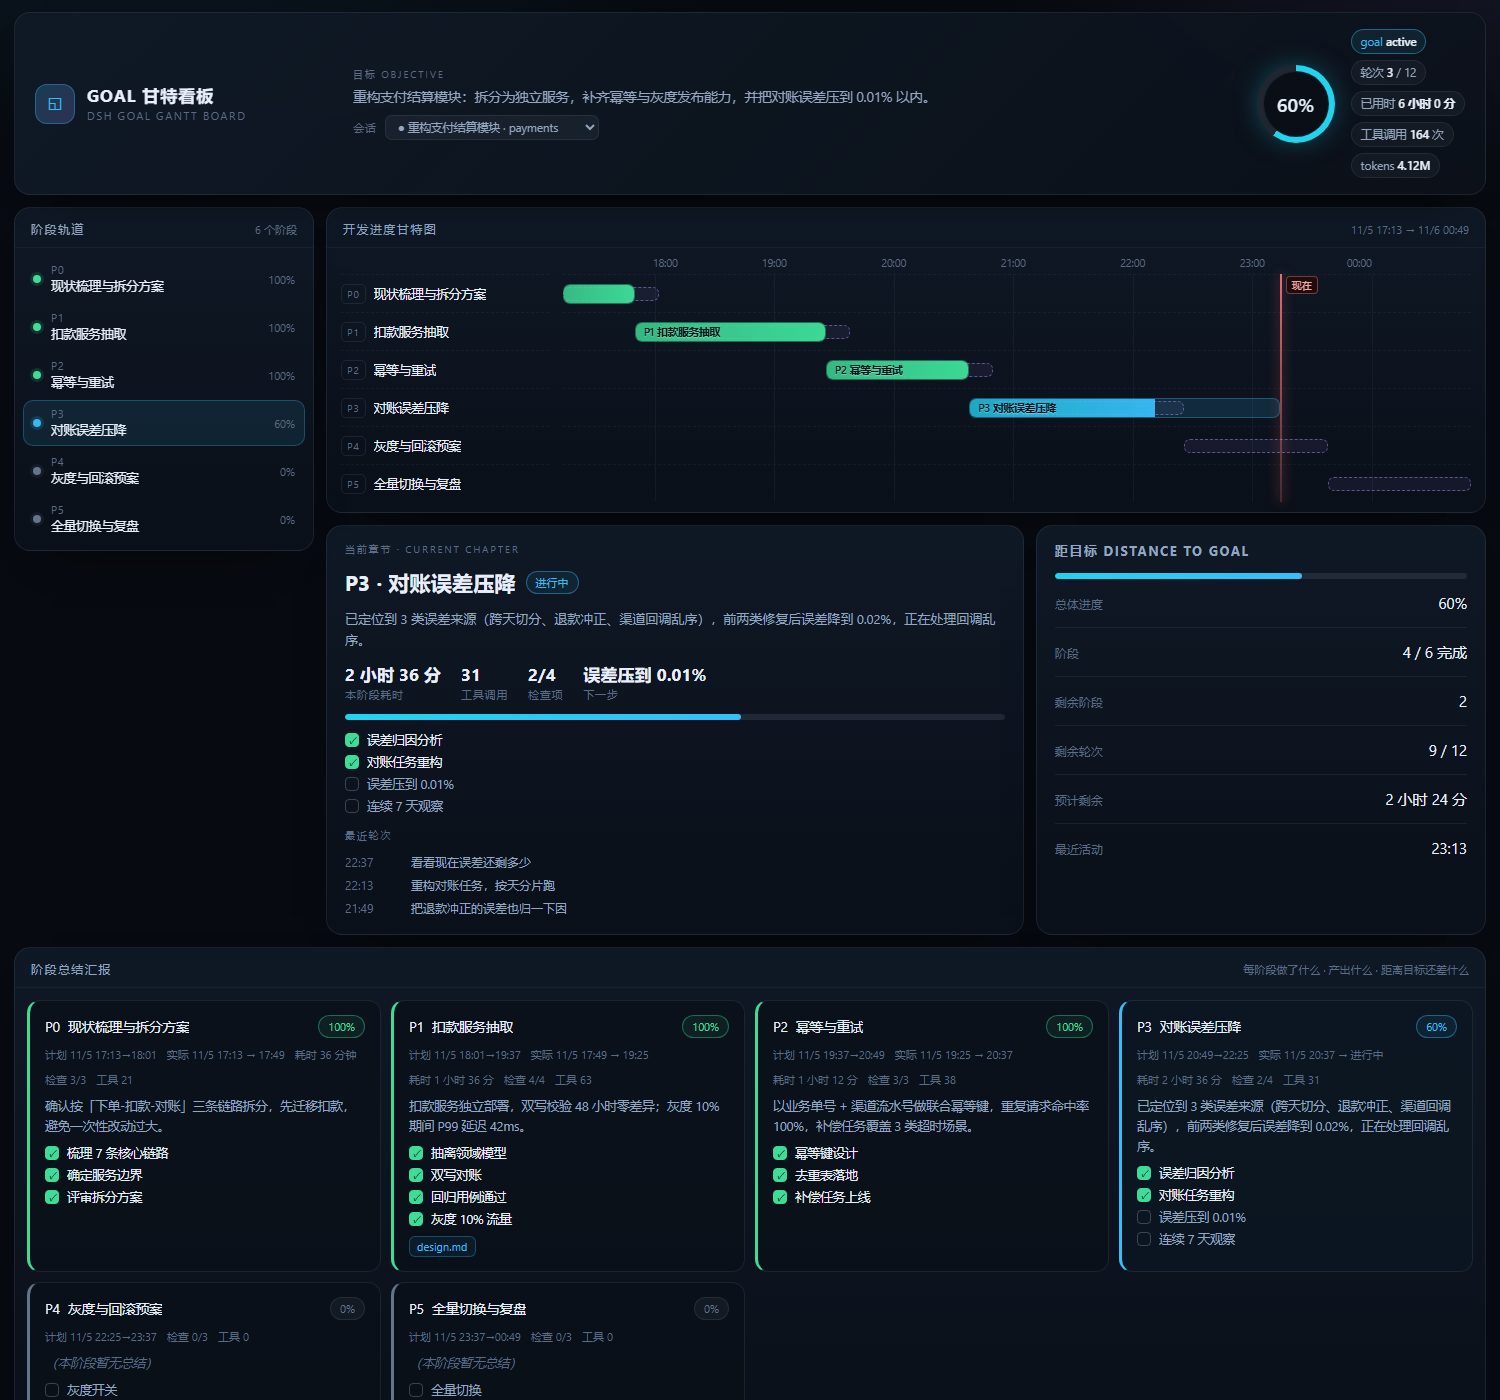
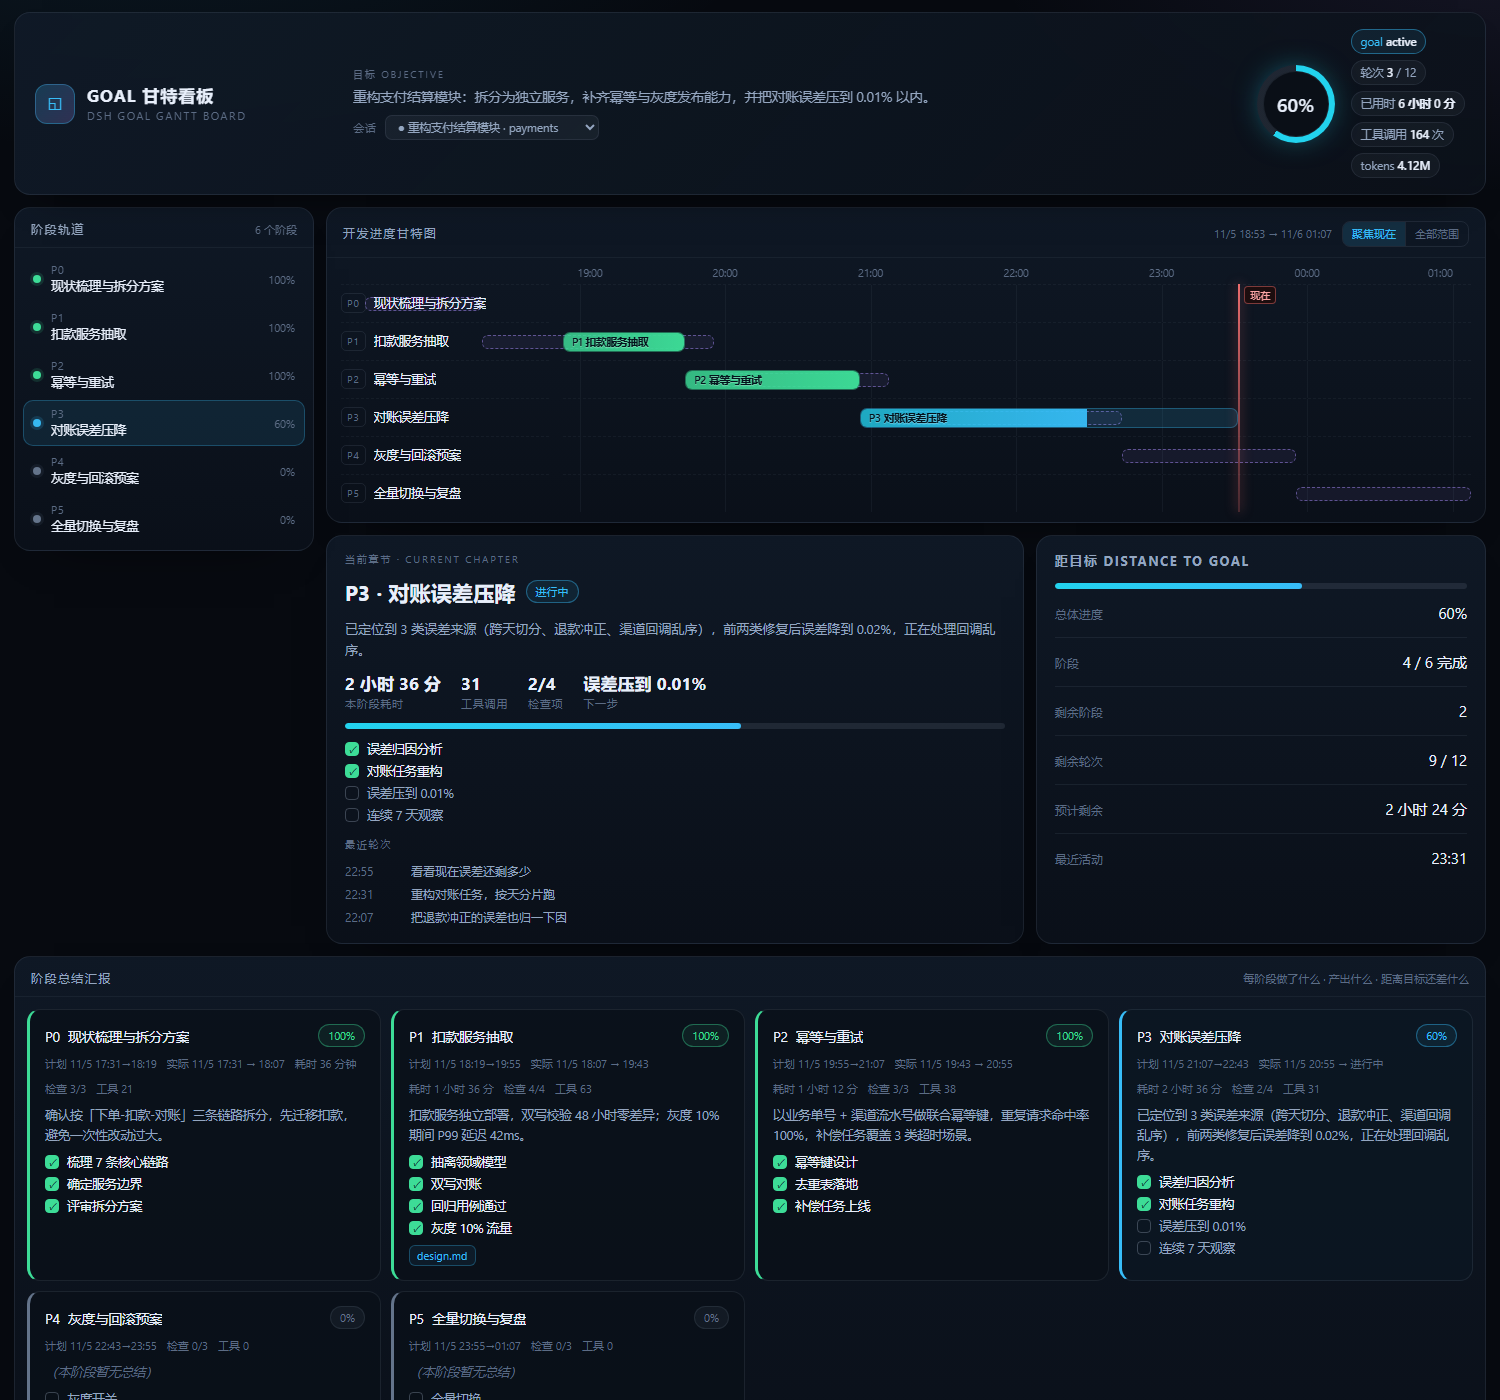
feat: focus-now time window and reusable phase lanes
- default view is a window around 'now' scaled by the active phase; toolbar
  toggles between 聚焦现在 and 全部范围
- a phase id may appear multiple times: segments merge into one lane with one
  bar per segment, summed duration and latest/active summary
- demo fixture and render tests updated; host test covers lane merging

diff --git a/lib/assets/board.js b/lib/assets/board.js
@@ -3,6 +3,7 @@
   'use strict';
 
   var DATA = window.__BOARD__ || null;
+  var VIEW_MODE = 'now';   /* now = 聚焦当前时间窗口；all = 全量 */
   var timer = null;
 
   var esc = function (s) {
@@ -138,8 +139,36 @@
     return { ticks: ticks, step: step };
   }
 
+  /* 默认只看「现在」附近：以进行中阶段的时长为尺度 */
+  function viewRange(d) {
+    var all = { from: d.timeline.from, to: d.timeline.to };
+    if (VIEW_MODE === 'all') return all;
+
+    var now = d.timeline.now;
+    var activeSeg = null;
+    var lastEnd = all.from;
+    (d.phases || []).forEach(function (p) {
+      var segs = (p.segments && p.segments.length) ? p.segments : [p];
+      segs.forEach(function (s) {
+        if (s.startedAt && (!s.endedAt || s.endedAt > lastEnd)) lastEnd = s.endedAt || now;
+        if (s.status === 'active' && s.startedAt) activeSeg = s;
+      });
+    });
+
+    var anchor = activeSeg ? now : lastEnd;
+    var base = activeSeg ? Math.max(now - activeSeg.startedAt, 20 * 60000) : 90 * 60000;
+    var span = Math.max(base * 2.4, 45 * 60000);
+    var from = anchor - span * 0.72;
+    var to = anchor + span * 0.28;
+
+    if (from < all.from) { from = all.from; to = Math.min(all.to, from + span); }
+    if (to > all.to) { to = all.to; from = Math.max(all.from, to - span); }
+    return { from: from, to: Math.max(to, from + 60000) };
+  }
+
   function renderGantt(d) {
-    var from = d.timeline.from, to = d.timeline.to;
+    var range = viewRange(d);
+    var from = range.from, to = range.to;
     var span = Math.max(to - from, 60000);
     var xp = function (t) { return ((t - from) / span) * 100; };
 
@@ -164,23 +193,32 @@
       labels.push('<div class="glab"><span class="gid">' + esc(p.id) + '</span><span class="gname" title="' +
         esc(p.title) + '">' + esc(p.title) + '</span></div>');
 
+      /* 同一阶段可能有多个时间段（复用同一个标签），逐段画条 */
+      var segs = (p.segments && p.segments.length)
+        ? p.segments
+        : [{ startedAt: p.startedAt, endedAt: p.endedAt, plannedStart: p.plannedStart,
+             plannedEnd: p.plannedEnd, status: p.status, progress: p.progress }];
+
       var bars = '';
-      if (p.plannedStart && p.plannedEnd) {
-        var pl = xp(p.plannedStart), pw = Math.max(xp(p.plannedEnd) - pl, 0.35);
-        bars += '<i class="gplan" style="left:' + pl.toFixed(3) + '%;width:' + pw.toFixed(3) + '%"></i>';
-      }
-      if (p.startedAt) {
-        var a = Math.max(xp(p.startedAt), 0);
-        var b = Math.min(xp(p.endedAt || d.timeline.now), 100);
+      segs.forEach(function (sg, si) {
+        if (sg.plannedStart && sg.plannedEnd) {
+          var pl = xp(sg.plannedStart), pw = Math.max(xp(sg.plannedEnd) - pl, 0.35);
+          bars += '<i class="gplan" style="left:' + pl.toFixed(3) + '%;width:' + pw.toFixed(3) + '%"></i>';
+        }
+        if (!sg.startedAt) return;
+        var a = Math.max(xp(sg.startedAt), 0);
+        var b = Math.min(xp(sg.endedAt || d.timeline.now), 100);
+        if (b <= a) return;
         var width = Math.max(b - a, 0.4);
-        var tip = [p.id, p.title, st.text, fmtRange(p.startedAt, p.endedAt), fmtDur(p.durationMs),
-          (p.activity ? p.activity.toolCalls : 0), (p.progress || 0)].join('|');
-        bars += '<div class="gbar st-' + p.status + '" data-tip="' + esc(tip) + '"' +
+        var tip = [p.id, p.title, statusOf(sg.status).text, fmtRange(sg.startedAt, sg.endedAt),
+          fmtDur(sg.startedAt ? (sg.endedAt || d.timeline.now) - sg.startedAt : null),
+          (p.activity ? p.activity.toolCalls : 0), (sg.progress || 0)].join('|');
+        bars += '<div class="gbar st-' + sg.status + '" data-tip="' + esc(tip) + '"' +
           ' style="left:' + a.toFixed(3) + '%;width:' + width.toFixed(3) + '%">' +
-          '<i class="fill" style="width:' + Math.min(p.progress || 0, 100) + '%"></i>' +
-          (width > 8 ? '<span class="lbl">' + esc(p.id + ' ' + p.title) + '</span>' : '') +
+          '<i class="fill" style="width:' + Math.min(sg.progress || 0, 100) + '%"></i>' +
+          (width > 8 ? '<span class="lbl">' + esc(p.id + ' ' + p.title) + (segs.length > 1 ? ' · ' + (si + 1) : '') + '</span>' : '') +
           '</div>';
-      }
+      });
       tracks.push('<div class="gtrack"><div class="grid">' + grid + '</div>' + bars + '</div>');
     });
 
@@ -193,6 +231,17 @@
     document.getElementById('gtracks').innerHTML = nowHtml + tracks.join('');
     document.getElementById('gantt-hint').textContent =
       fmtDate(from) + ' ' + fmtClock(from) + ' → ' + fmtDate(to) + ' ' + fmtClock(to);
+
+    var tools = document.getElementById('gantt-tools');
+    if (tools && typeof tools.querySelectorAll === 'function') {
+      Array.prototype.forEach.call(tools.querySelectorAll('button'), function (btn) {
+        btn.classList.toggle('on', btn.getAttribute('data-mode') === VIEW_MODE);
+        btn.onclick = function () {
+          VIEW_MODE = btn.getAttribute('data-mode');
+          renderGantt(DATA);
+        };
+      });
+    }
 
     bindTips();
   }
@@ -234,8 +283,10 @@
       host.innerHTML = '<div class="ckicker">当前章节</div><h2>尚未开始</h2><p>还没有阶段被标记为进行中。</p>';
       return;
     }
+    var seg = (p.segments && (p.segments.filter(function (s) { return s.status === 'active'; })[0] ||
+      p.segments[p.segments.length - 1])) || { startedAt: p.startedAt, endedAt: p.endedAt, summary: p.summary, checks: p.checks };
     var st = statusOf(p.status);
-    var doneChecks = p.checks.filter(function (c) { return c.done; }).length;
+    var doneChecks = seg.checks.filter(function (c) { return c.done; }).length;
 
     var turns = (d.recentTurns || []).slice().reverse().map(function (t) {
       return '<div class="turn"><time>' + esc(fmtStamp(t.time)) + '</time><span title="' + esc(t.prompt) + '">' +
@@ -250,9 +301,10 @@
     host.innerHTML =
       '<div class="ckicker">' + kicker + '</div>' +
       '<div class="chead"><h2>' + esc(p.id + ' · ' + p.title) + '</h2><span class="badge ' + st.cls + '">' + st.text + '</span></div>' +
-      '<p>' + esc(p.summary || p.desc || '暂无阶段说明。') + '</p>' +
+      '<p>' + esc(seg.summary || p.summary || p.desc || '暂无阶段说明。') + '</p>' +
       '<div class="kmeter">' +
-        '<div class="kv"><b>' + (p.durationMs ? fmtDur(p.durationMs) : '—') + '</b><span>本阶段耗时</span></div>' +
+        '<div class="kv"><b>' + (p.durationMs ? fmtDur(p.durationMs) : '—') + '</b><span>' +
+          ((p.segments && p.segments.length > 1) ? '累计耗时' : '本阶段耗时') + '</span></div>' +
         '<div class="kv"><b>' + (p.activity ? p.activity.toolCalls : 0) + '</b><span>工具调用</span></div>' +
         '<div class="kv"><b>' + doneChecks + '/' + p.checks.length + '</b><span>检查项</span></div>' +
         '<div class="kv"><b>' + (p.nextCheck || '—') + '</b><span>下一步</span></div>' +
@@ -314,7 +366,8 @@
         (p.startedAt ? '<span>实际 ' + esc(fmtRange(p.startedAt, p.endedAt)) + '</span>' : '') +
         (p.durationMs ? '<span>耗时 ' + esc(fmtDur(p.durationMs)) + '</span>' : '') +
         '<span>检查 ' + doneChecks + '/' + p.checks.length + '</span>' +
-        (p.activity ? '<span>工具 ' + p.activity.toolCalls + '</span>' : '') + '</div>' +
+        (p.activity ? '<span>工具 ' + p.activity.toolCalls + '</span>' : '') +
+        ((p.segments && p.segments.length > 1) ? '<span>' + p.segments.length + ' 个时间段</span>' : '') + '</div>' +
         '<div class="summary' + (p.summary ? '' : ' empty') + '">' + esc(p.summary || '（本阶段暂无总结）') + '</div>' +
         checks + deliv +
         '</div>';

diff --git a/lib/board-data.js b/lib/board-data.js
@@ -185,6 +185,46 @@ function readPhaseConfig(cwd) {
 const ts = (value) => (value ? Date.parse(value) : null);
 
 /**
+ * 把同 id 的阶段合并成一条泳道（允许不同时间段的重复优化共用同一个标签）。
+ * 返回的每一项带 segments[]，并保留顶层的兼容字段。
+ */
+export function groupPhases(raw) {
+  const order = [];
+  const groups = new Map();
+  for (const phase of raw) {
+    if (!groups.has(phase.id)) { groups.set(phase.id, []); order.push(phase.id); }
+    groups.get(phase.id).push(phase);
+  }
+
+  return order.map((id) => {
+    const segments = groups.get(id).slice().sort((a, b) => (a.startedAt ?? a.plannedStart ?? 0) - (b.startedAt ?? b.plannedStart ?? 0));
+    const latest = segments[segments.length - 1];
+    const active = segments.find((s) => s.status === 'active') ?? null;
+    const allDone = segments.every((s) => s.status === 'done');
+    const status = active ? 'active' : allDone ? 'done' : latest.status;
+    const first = segments[0];
+    const endedAt = active ? null : (latest.endedAt ?? latest.plannedEnd ?? null);
+
+    return {
+      id,
+      title: first.title,
+      desc: first.desc,
+      status,
+      segments,
+      startedAt: first.startedAt ?? first.plannedStart ?? null,
+      plannedStart: first.plannedStart ?? null,
+      plannedEnd: latest.plannedEnd ?? null,
+      endedAt,
+      checks: (active ?? latest).checks,
+      summary: (active ?? latest).summary,
+      deliverables: segments.flatMap((s) => s.deliverables || []),
+      progress: active ? active.progress : latest.progress,
+      current: active ?? latest,
+    };
+  });
+}
+
+/**
  * 阶段配置是否适用于这个会话：
  *   config.sessionId  指定会话（最高优先级）
  *   config.goalId     指定 goal
@@ -379,18 +419,32 @@ export function buildBoard(dataRoot, opts = {}) {
     ? []
     : (mode === 'config' ? config.phases.map(phaseFromConfig) : autoPhases(events, goal, now));
 
-  const phases = rawPhases.map((phase, index) => {
+  const grouped = groupPhases(rawPhases);
+
+  const phases = grouped.map((phase) => {
+    /* 每个时间段单独成段，甘特图会为每段画一根条 */
+    const segments = phase.segments.map((s) => {
+      const segEnd = s.endedAt ?? (s.status === 'active' ? now : null);
+      return {
+        startedAt: s.startedAt,
+        endedAt: segEnd,
+        plannedStart: s.plannedStart,
+        plannedEnd: s.plannedEnd,
+        status: s.status,
+        progress: s.progress ?? (s.status === 'done' ? 100 : 0),
+        summary: s.summary,
+        checks: s.checks,
+      };
+    });
+
     let ended = phase.endedAt;
-    if (!ended && phase.status === 'done') {
-      ended = rawPhases.slice(index + 1).map((p) => p.startedAt).find(Boolean) ?? now;
-    }
-    const openEnd = ended ?? (phase.startedAt ? now : null);
-    const calls = phase.startedAt
-      ? toolCalls.filter((t) => t.time >= phase.startedAt && t.time <= (openEnd ?? now)).length
-      : 0;
-    const turns = phase.startedAt
-      ? [...turnStarts.values()].filter((t) => t >= phase.startedAt && t <= (openEnd ?? now)).length
-      : 0;
+    if (!ended && phase.status === 'done') ended = now;
+    const inside = (t) => segments.some(
+      (s) => s.startedAt && t >= s.startedAt && t <= (s.endedAt ?? now));
+    const calls = toolCalls.filter((s) => inside(s.time)).length;
+    const turns = [...turnStarts.values()].filter(inside).length;
+    const durationMs = segments.reduce(
+      (sum, s) => sum + (s.startedAt ? (s.endedAt ?? now) - s.startedAt : 0), 0);
 
     return {
       id: phase.id,
@@ -404,7 +458,8 @@ export function buildBoard(dataRoot, opts = {}) {
       plannedEnd: phase.plannedEnd,
       startedAt: phase.startedAt,
       endedAt: ended,
-      durationMs: phase.startedAt ? (openEnd ?? now) - phase.startedAt : null,
+      segments,
+      durationMs: durationMs || null,
       progress: phase.progress ?? (phase.status === 'done' ? 100 : 0),
       activity: { toolCalls: calls, turns },
       nextCheck: phase.checks.find((c) => !c.done)?.label || null,

diff --git a/lib/assets/board.css b/lib/assets/board.css
@@ -152,6 +152,17 @@ main > * { min-width: 0; }
   font-size: 12px; letter-spacing: .12em; color: var(--sub); text-transform: uppercase;
 }
 .panel-h .hint { font-size: 11px; letter-spacing: 0; text-transform: none; color: var(--dim); }
+.ph-right { display: flex; align-items: center; gap: 10px; }
+
+.gantt-tools { display: inline-flex; border: 1px solid var(--line); border-radius: 8px; overflow: hidden; }
+.gantt-tools button {
+  background: transparent; border: 0; color: var(--dim); font-size: 11px;
+  padding: 3px 9px; cursor: pointer; font-family: inherit; line-height: 1.6;
+}
+.gantt-tools button + button { border-left: 1px solid var(--line); }
+.gantt-tools button:hover { color: var(--txt); }
+.gantt-tools button.on { background: rgba(56, 189, 248, .14); color: var(--active); }
+.gantt-tools button:focus-visible { outline: 2px solid var(--active); outline-offset: -2px; }
 
 /* ------------------------------------------------------------------ rail */
 

diff --git a/lib/view.js b/lib/view.js
@@ -71,7 +71,11 @@ export function renderPage(model) {
     </section>
 
     <section class="panel gantt-panel">
-      <div class="panel-h"><span>开发进度甘特图</span><span class="hint" id="gantt-hint"></span></div>
+      <div class="panel-h"><span>开发进度甘特图</span><div class="ph-right"><span class="hint" id="gantt-hint"></span>
+        <div class="gantt-tools" id="gantt-tools">
+          <button type="button" data-mode="now" class="on">聚焦现在</button>
+          <button type="button" data-mode="all">全部范围</button>
+        </div></div></div>
       <div class="gantt">
         <div class="gaxis"><div class="spacer"></div><div class="ticks" id="gaxis"></div></div>
         <div class="gbody">

diff --git a/lib/client.js b/lib/client.js
@@ -50,7 +50,11 @@ window.__ModuleLoader__.load({
     </section>
 
     <section class="panel gantt-panel">
-      <div class="panel-h"><span>开发进度甘特图</span><span class="hint" id="gantt-hint"></span></div>
+      <div class="panel-h"><span>开发进度甘特图</span><div class="ph-right"><span class="hint" id="gantt-hint"></span>
+        <div class="gantt-tools" id="gantt-tools">
+          <button type="button" data-mode="now" class="on">聚焦现在</button>
+          <button type="button" data-mode="all">全部范围</button>
+        </div></div></div>
       <div class="gantt">
         <div class="gaxis"><div class="spacer"></div><div class="ticks" id="gaxis"></div></div>
         <div class="gbody">

diff --git a/README.md b/README.md
@@ -13,6 +13,8 @@
 ## 特性
 
 - **甘特时间轴**：计划条（虚线）与实际条（实线）叠加，按时间跨度自动切换刻度（15 分钟 / 1 小时 / 6 小时 / 1 天）
+- **默认聚焦现在**：打开就看当前时间窗口（以进行中阶段的时长为尺度），可一键切「全部范围」
+- **阶段可复用**：同一个 `id` 写多条配置会合并成一条泳道，各时间段单独画条（适合「间断优化」这类反复出现的工作）
 - **当前章节**：自动定位进行中的阶段，显示本阶段耗时、工具调用数、检查项进度、最近轮次
 - **阶段总结汇报**：每阶段一张卡片 —— 摘要、检查项、产出物
 - **距目标面板**：剩余阶段、剩余轮次、预估剩余时间
@@ -91,6 +93,17 @@ pwsh -File scripts/install.ps1
 没有配置文件时自动降级：按 `goal_round` 轮次切分阶段；再没有就按对话轮次切分。
 
 阶段进度 = `checks` 完成比例；没有 checks 时按状态估算（done=100 / active=40 / pending=0）。
+
+**复用阶段**：同一个 `id` 可以出现多次，看板会把它们合并成一条泳道、每段画一根条，
+状态取「有进行中则进行中，否则看最后一段」，耗时按各段累加。例如：
+
+```jsonc
+{ "id": "P8", "title": "时间轴优化", "status": "done",   "startedAt": "...", "endedAt": "..." },
+{ "id": "P9", "title": "文档",       "status": "done",   "startedAt": "...", "endedAt": "..." },
+{ "id": "P8", "title": "时间轴优化", "status": "active", "startedAt": "..." }   // 又回来优化一次
+```
+
+甘特图上 P8 会是一行、两根条。
 
 ## 数据来源
 
